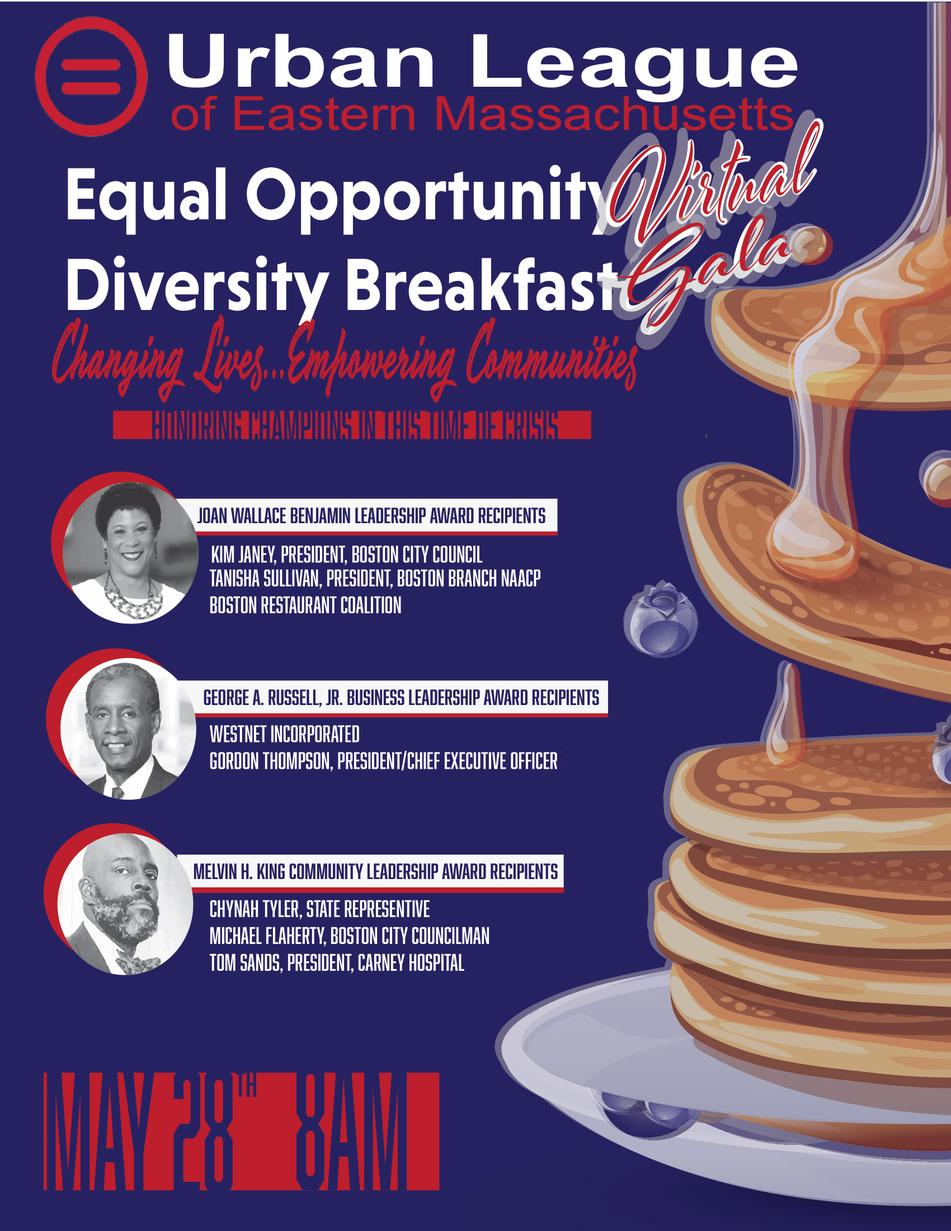
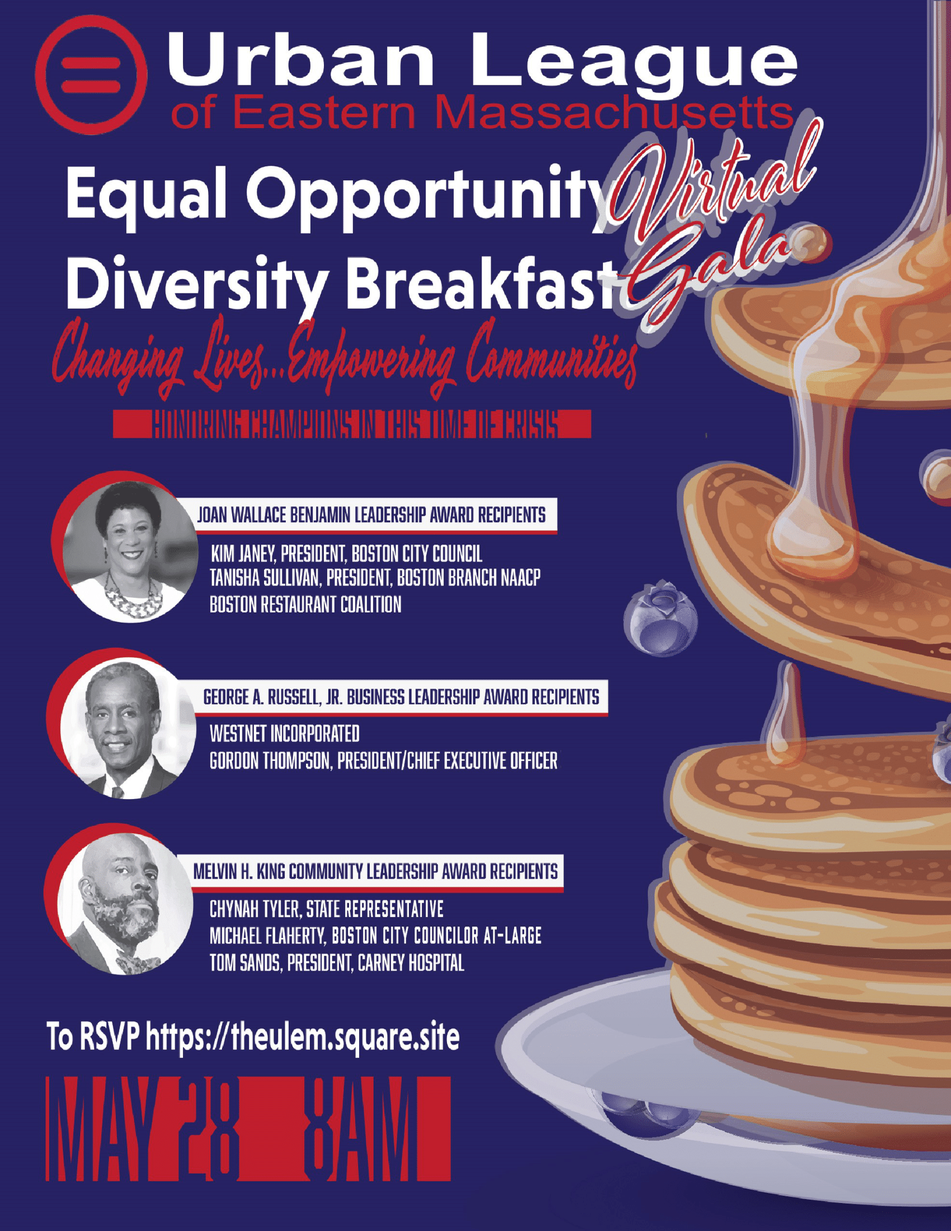
update flyer

diff --git a/src/components/layout/ImageModal.js b/src/components/layout/ImageModal.js
@@ -28,11 +28,13 @@ const ImageModal = ({ id, title, img }) => {
             </button>
           </div>
           <div className="modal-body image-modal">
-            <img
-              src={breakfastGala}
-              className="img-fluid"
-              alt="breakfast gala"
-            />
+            <a target="__blank" href="https://theulem.square.site/">
+              <img
+                src={breakfastGala}
+                className="img-fluid"
+                alt="breakfast gala"
+              />
+            </a>
           </div>
         </div>
       </div>
